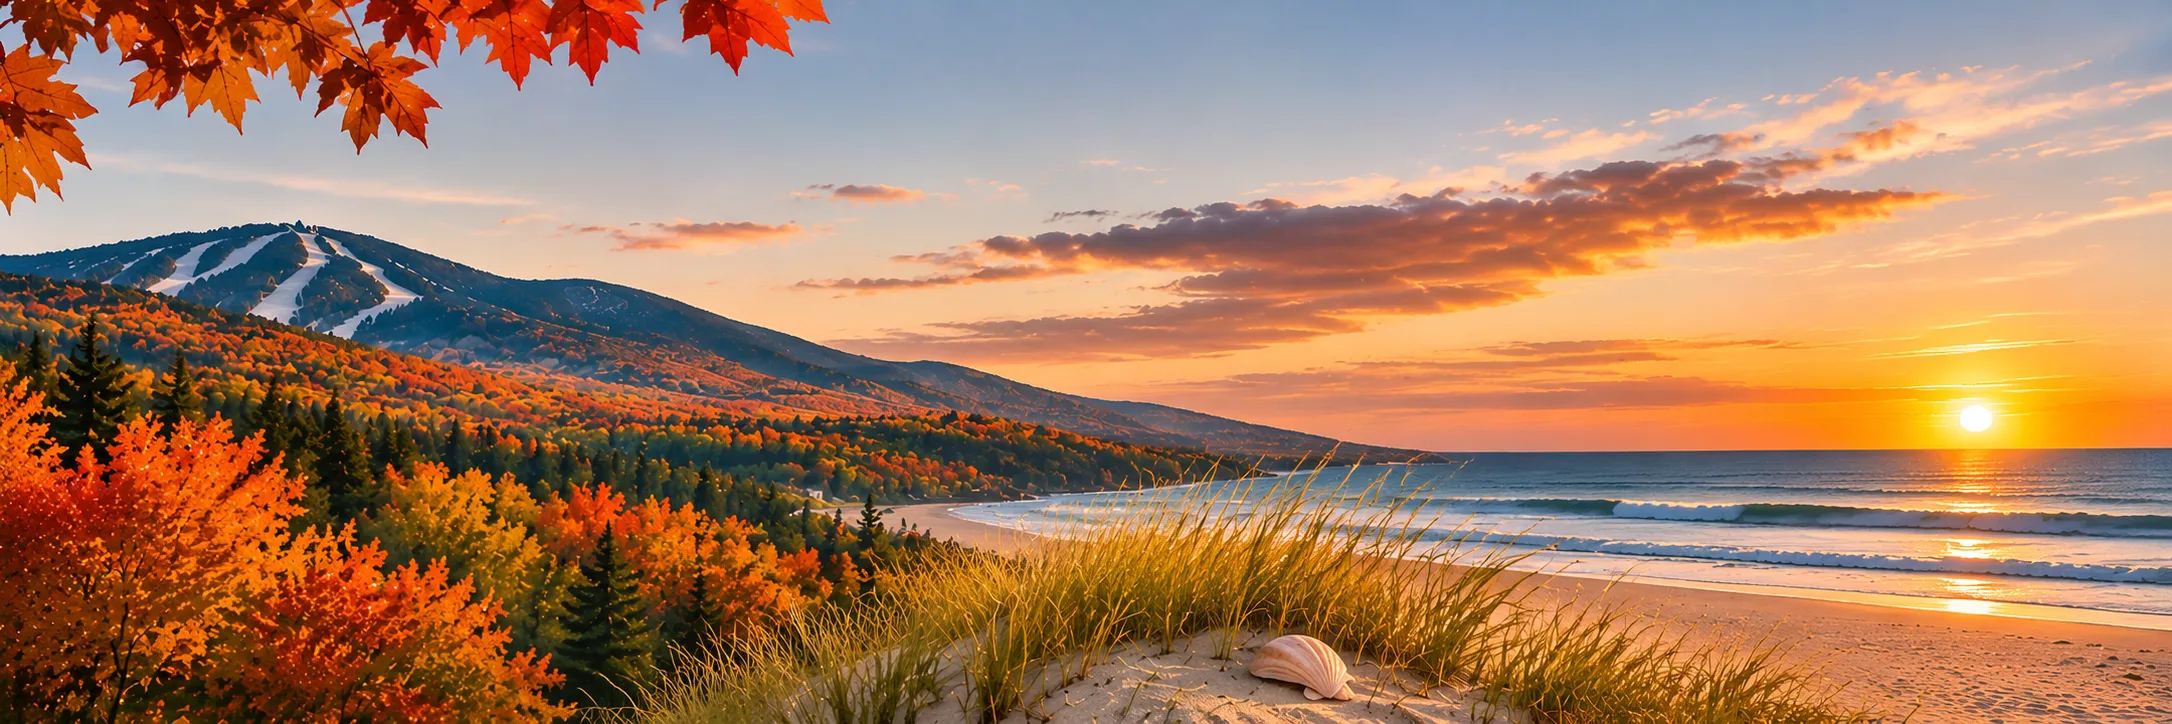
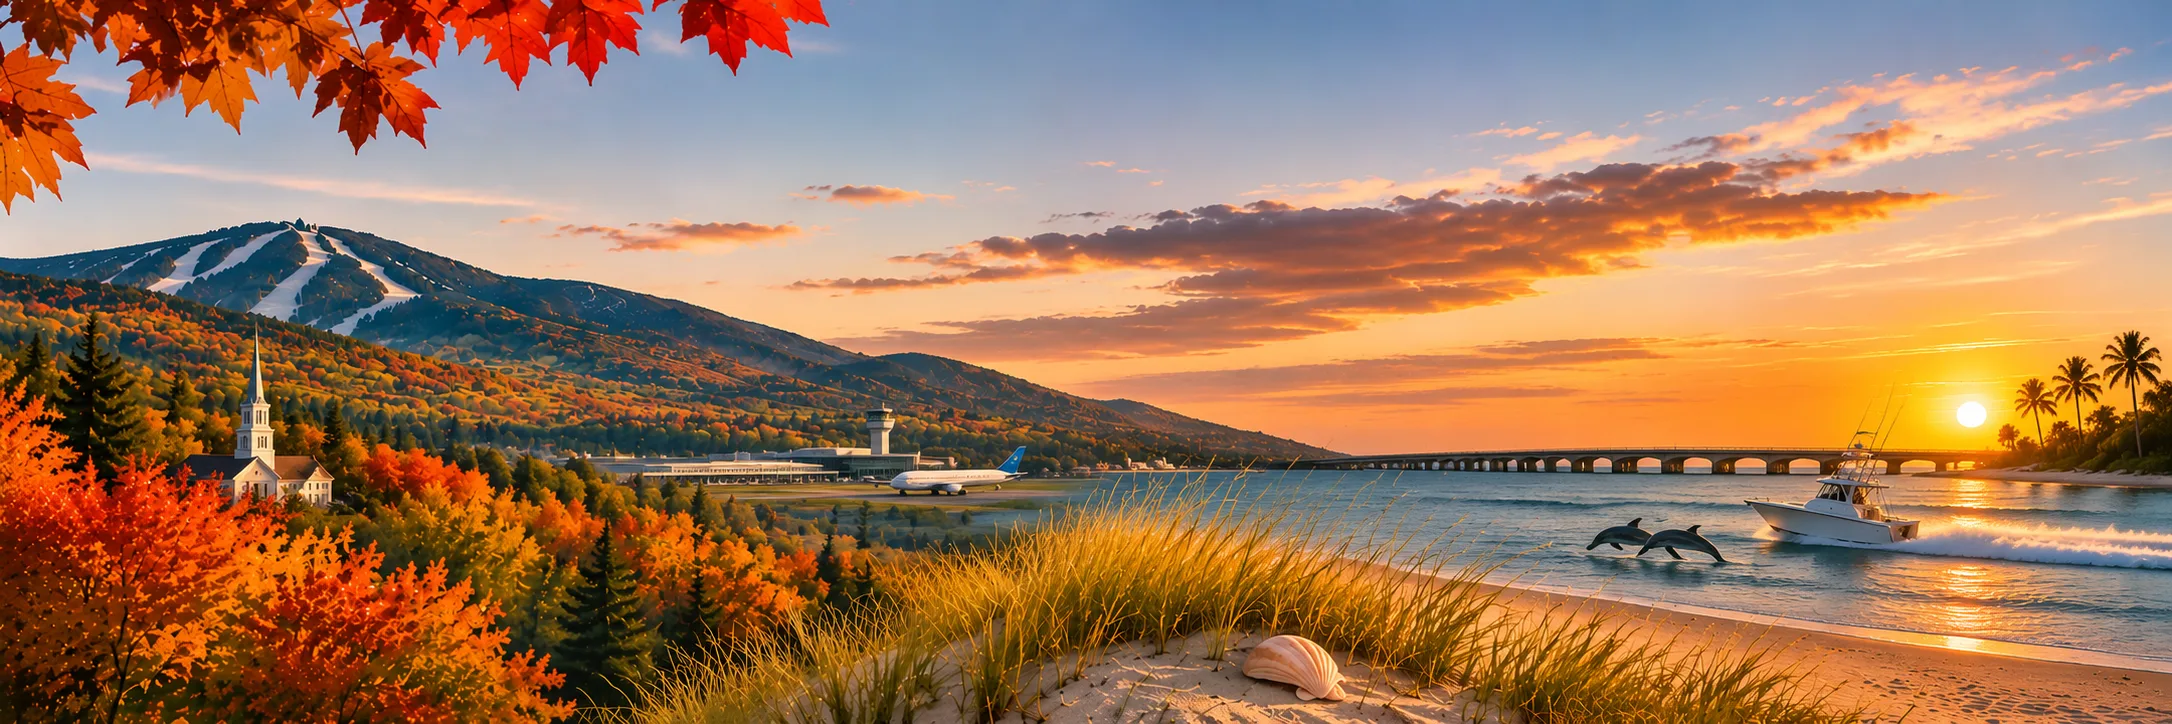
New Far & Familiar hero

diff --git a/src/sites/dad.ts b/src/sites/dad.ts
@@ -27,7 +27,7 @@ export const dadSite: SiteConfig = {
     src: "/sites/dad/hero.webp",
     width: 2172,
     height: 724,
-    alt: "Illustrated Vermont autumn mountains meeting a Sanibel Island beach at sunset",
+    alt: "Illustrated Vermont autumn mountains, church, and airport meeting a Sanibel beach with dolphins and a sunset bridge",
   },
   logos: [],
   artworkOrder: [
